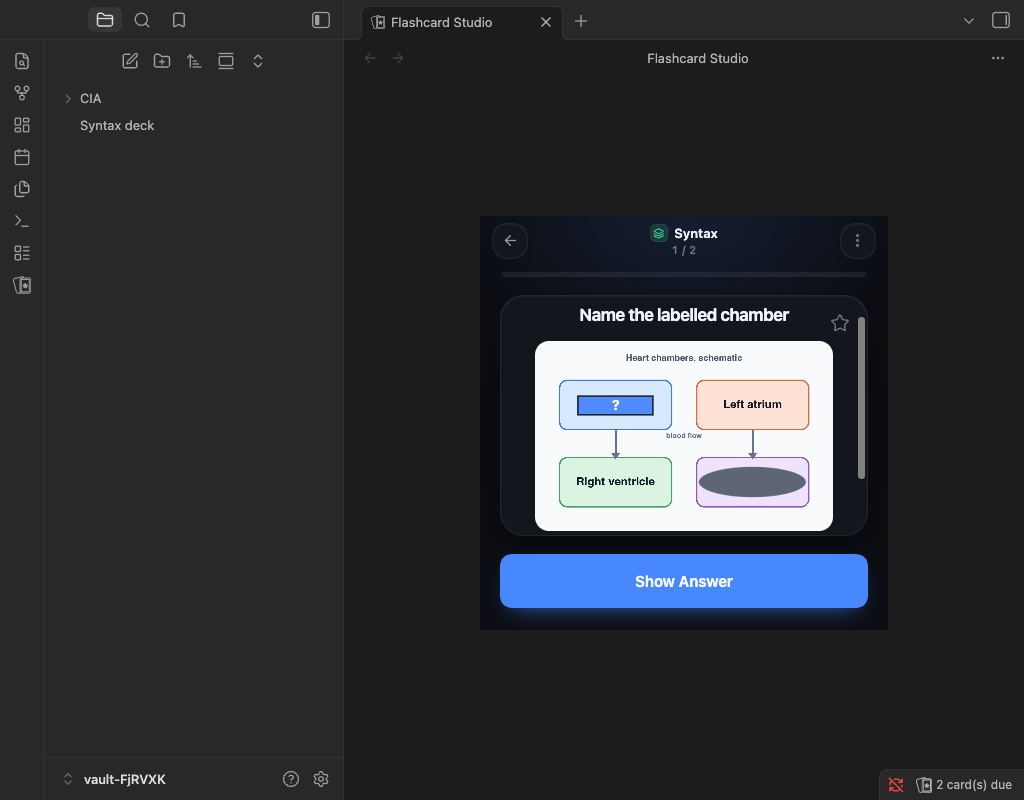
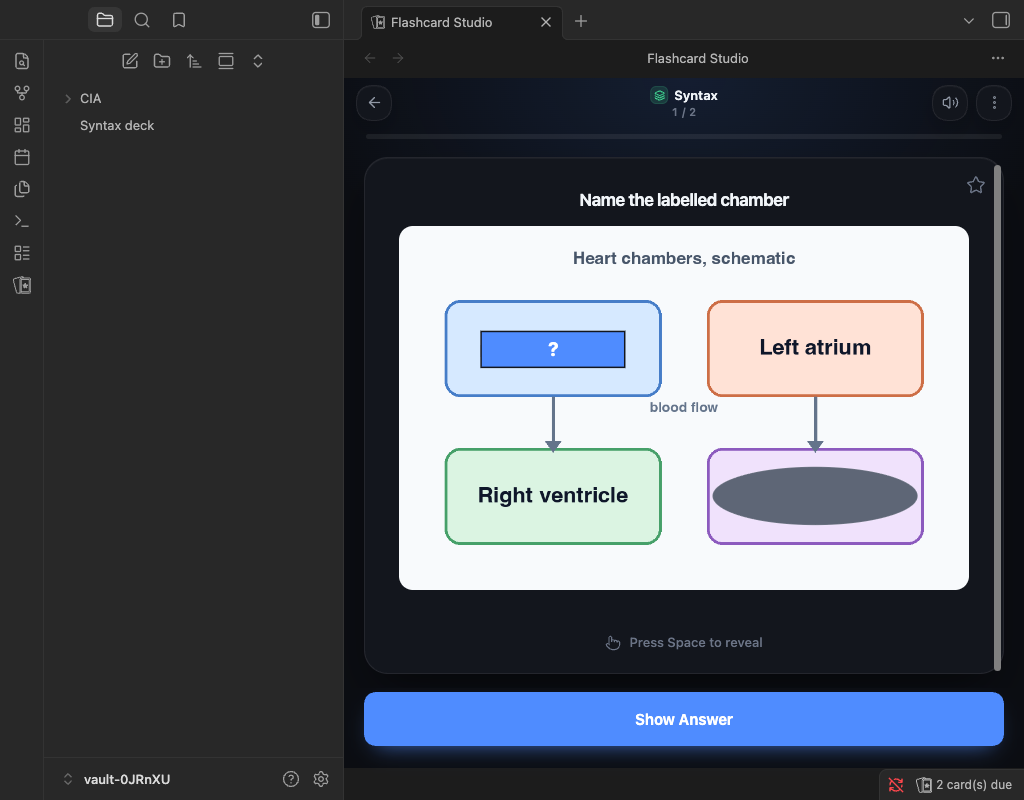
docs: README section on the desktop interface, and the features in the highlights and the comparison
The README now has a section on the desktop interface (the sidebar, the dashboard, the
study screen with its side panel, the Desktop layout setting and the narrow pane fallback)
with the desktop screenshots, and the highlights and the comparison table list image
occlusion, multiple choice cards, typed answers, read aloud, exams and cards from your own
AI provider. Where the exam progress is kept (a file of its own, when something changed)
is stated where the exams and the data are described.

The desktop home and study screenshots are taken again, with Exams and Create with AI in
the sidebar and the full list of keys in the panel, and so are the occlusion review
screenshots in a tab, which is now the desktop layout in a pane that is too narrow for it.

Claude-Session: https://claude.ai/code/session_017yaBeUdrJ2saXapsMcmqyG

diff --git a/README.md b/README.md
@@ -14,9 +14,12 @@ Flashcard Studio turns the Markdown you already write into spaced repetition fla
 ## Highlights
 
 - **A study screen made for focus.** One card at a time, with the deck and "4 / 17" at the top and a progress bar that fills with the colour of each answer you give. Tap to reveal, then answer with soft tiles that show when you will see the card again.
+- **An interface for the desktop.** On a computer it opens as a full tab with a sidebar, a dashboard home and, while you study, a side panel with what is known about the card, how the session is going and the keys. The phone keeps its own screens.
+- **Learn diagrams.** Image occlusion hides parts of a picture, with an editor that works with a mouse and with a finger, one card for each mask.
+- **More ways to answer.** Multiple choice cards from a plain checklist, typed answers that show which letters were wrong, and cards read aloud with your device's voices.
 - **Know where you are weak.** The statistics rank your decks by how well you remembered them in the last 30 days, against your target, and the home screen puts the weakest one first with one tap to study it.
 - **Fix mistakes while they are fresh.** At the end of a session, **Review mistakes** goes over exactly the cards you missed.
-- **Practise like the real thing.** Timed exams from your multiple choice cards, with a question map, a score against your pass mark and the score of each deck, and one tap to study what you missed.
+- **Practise like the real thing.** Exams with a timer from your multiple choice cards, or all your cards, with a question map, a score against your pass mark and the score of each deck, progress that survives closing the tab, and one tap to study what you missed.
 - **Anki's scheduling.** FSRS with learning steps, Anki's learn ahead limit, daily limits, custom study, and an optimizer that fits FSRS to your own reviews.
 - **Full control.** Undo, suspend, bury, flags and leeches, and a card info screen with every review of a card.
 - **Cards written for you.** Generate cards from a note with your own AI provider (Anthropic, OpenAI or a local model), look them over, and add only the ones you want.
@@ -44,7 +47,13 @@ Flashcard Studio turns the Markdown you already write into spaced repetition fla
 | Custom study (forgotten, ahead, preview, by deck)    |                   | ✓                |
 | Heatmap, true retention, study time and weak areas   |                   | ✓                |
 | Review mistakes after a session                      |                   | ✓                |
+| A desktop interface with a sidebar and a dashboard   |                   | ✓                |
+| Image occlusion cards                                |                   | ✓                |
+| Multiple choice cards                                |                   | ✓                |
+| Typed answers                                        |                   | ✓                |
+| Read aloud                                           |                   | ✓                |
 | Exams with a timer, a score and results to study     |                   | ✓                |
+| Cards written by your own AI provider                |                   | ✓                |
 | Import from and export to Anki                       |                   | ✓                |
 | Sync without conflicts across devices                |                   | ✓                |
 
@@ -167,13 +176,35 @@ An image occlusion card asks for the label of the mask it is about, when that la
 
 The speaker button in the card, or the **R** key, reads the side you see with your device's own voices, offline. Images, code and math are skipped, and a cloze blank is read as "blank". A multiple choice card reads its options, and after you answer, the right one and the explanation. In the settings you can read the question or the answer aloud as soon as it shows, and choose the voice and the speed. Where a device cannot speak, the button and the settings are not shown.
 
+## The desktop interface
+
+On a computer, Flashcard Studio opens as a full tab with a sidebar, in place of a window over your notes.
+
+<picture>
+  <source media="(prefers-color-scheme: dark)" srcset="docs/media/screenshots/desktop-home-dark.png">
+  <img alt="The desktop home: the sidebar with Home, Study, Exams, Browse cards, Statistics and Create with AI above the deck tree, and a dashboard with the daily goal, the streak, the decks, the activity and the next seven days" src="docs/media/screenshots/desktop-home.png">
+</picture>
+
+- The **sidebar** has Home, Study (with the number of cards due), Exams, Browse cards, Statistics and Create with AI, then your decks with the cards due and the total of each, and Settings. Click a deck to study it; decks with subdecks open and close.
+- The **home** is a dashboard: a greeting with the number of cards due and about how long they take, **Take an exam** and **Study all**, your daily goal, the streak, the cards learned and the retention, the deck that needs focus, your last exam with **Retake**, your decks with their retention against your target, the activity of the year and the next seven days.
+
+<picture>
+  <source media="(prefers-color-scheme: dark)" srcset="docs/media/screenshots/desktop-study-dark.png">
+  <img alt="The desktop study screen: the sidebar shrunk to a strip of icons, the card with its answer tiles under it, and a panel on the right with the card, the session and the keys" src="docs/media/screenshots/desktop-study.png">
+</picture>
+
+- While you **study**, the sidebar shrinks to a strip of icons so that the card gets the room. The card is up to 780 px wide, with the rating tiles and their keys under it, and the rating that the answer suggests is outlined. The panel on the right shows **This card** (its state, when you last saw it, its stability, how well you would recall it now, its lapses and your last five answers), **This session** (your answers, the time and the cards left) and the **Keys**.
+- Clicking or pressing an item of the sidebar leaves the keyboard to the screen it opens, so Space shows the answer of the card in front of you.
+- A pane narrower than 900 px, for example a split, gets the layout of the phone, and the desktop layout returns when it widens. A study session is never dropped by a change of size or of tab: the switch waits until you are back on the deck list.
+- **Desktop layout** in **Settings, UI preferences** (on by default) turns it off. It is only read on a computer, applies to the Studio look (the Classic look keeps its window), and opens the tab whatever **Open in new tab** says. Turn it off if you prefer a window over your notes, or the layout of the phone in a tab. The phone always has its own screens.
+
 ## Exams
 
 Run **Flashcard Studio: Take an exam** from the command palette, press **Take an exam** on the home screen, or choose **Exams** in the desktop sidebar. Choose the decks, the number of questions, a time limit (or none) and which cards to ask: **Multiple choice only**, or **All cards**, where a card with a short plain answer is typed and any other card is one you mark yourself after looking at the answer. An image occlusion card is typed too when the label of its mask is short plain text. Two presets fill it in: **Quick check** (20 questions, no limit) and **CIA simulation** (125 questions, 150 minutes). Cloze cards and suspended cards are never asked, and an exam never changes the schedule of a card.
 
 The exam shows one question at a time, with "12 / 125" and the time left at the top. The time turns orange under five minutes, and the exam is submitted when it reaches zero. Flag a question to come back to it. The question map, beside the question on a desktop and a sheet from the bottom on a phone, shows what is answered and what is flagged, and jumps to any question. Press 1 to 9 to choose an option, the left and right arrows to move, F to flag and Enter to go on; the keys are read by where they are on the keyboard, so they work on an Arabic or an AZERTY layout, and they only work while the exam is the pane you are in. **Submit** asks first, and says how many questions are unanswered or flagged.
 
-Your progress is saved as you go: after every answer, flag and move, and every 15 seconds. If you close the tab, or quit Obsidian, the exam is still there. Obsidian offers to **Resume exam** when it starts, and **Exams** lists it first. A timed exam keeps its deadline: time passes while it is closed, as in a real exam, and one that ran out is submitted as you left it. **Discard** (two presses) or **Leave** in the exam throws it away.
+Your progress is saved as you go: after every answer, flag and move, and when you pause typing, and only when something changed. If you close the tab, or quit Obsidian, the exam is still there. Obsidian offers to **Resume exam** when it starts, and **Exams** lists it first. A timed exam keeps its deadline: time passes while it is closed, as in a real exam, and one that ran out is submitted as you left it. **Discard** (two presses) or **Leave** in the exam throws it away. An exam is resumed on the device that started it.
 
 <picture>
   <source media="(prefers-color-scheme: dark)" srcset="docs/media/screenshots/exam-question-desktop.png">
@@ -206,7 +237,7 @@ Many local servers cut a long note short without saying so (Ollama's default con
 
 - **The schedule of each card** is an HTML comment after the card: `<!--SR:!fsrs,...,id=k3f9a2-->`. It is the same format the original plugin uses, plus a short card id and optional markers (`susp`, `bury=`, `flag=`, `leech`) that the original plugin ignores.
 - **Your review history** is in `Flashcard Studio/Review log/`, with one Markdown file per device per month (for example `2026-09 iphone-81c2.md`). Each answer is one line of JSON. Because every device writes only its own files, syncing with Obsidian Sync, iCloud or any other service never creates conflicts.
-- **Your exams** are in `Flashcard Studio/Exams/`, one Markdown file each. Like the review log, they are never read as cards. An exam in progress is kept in the plugin's `data.json` until it is submitted or discarded.
+- **Your exams** are in `Flashcard Studio/Exams/`, one Markdown file each. Like the review log, they are never read as cards. An exam in progress is kept in a file of its own in the plugin's folder (`exam-drafts/`, one file for each exam and device, named like the review log's files) until it is submitted or discarded, so it never touches your settings.
 - **Settings** are in the plugin's `data.json`.
 
 These plain files make it easy for scripts or AI assistants to read your progress and add cards.
